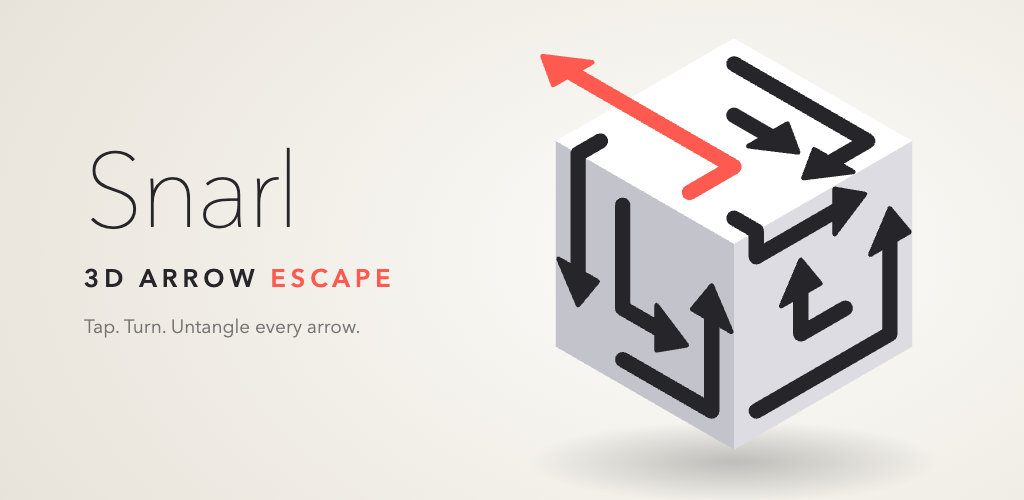
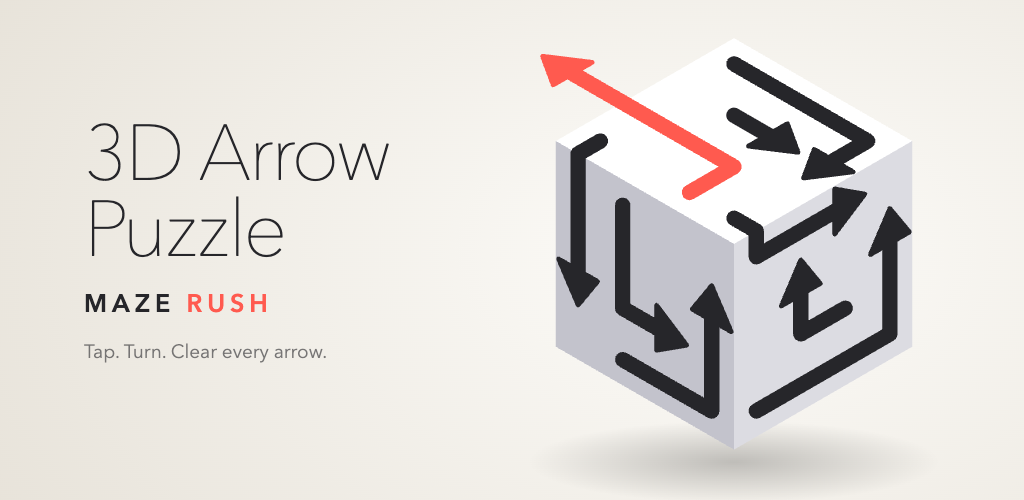
Rename to 3D Arrow Puzzle: Maze Rush on arrowpuzzle.scrolltrace.in

Changed region(s): [[0.0625, 0.24, 0.375, 0.51], [0.0625, 0.54, 0.375, 0.72]]

diff --git a/index.html b/index.html
@@ -3,21 +3,21 @@
 <head>
 <meta charset="utf-8">
 <meta name="viewport" content="width=device-width,initial-scale=1">
-<title>Snarl – 3D Arrow Escape Puzzle for Android</title>
-<meta name="description" content="Snarl is a calm 3D arrow puzzle. Tap an arrow and it slides out of the cube, if its path is clear. Endless levels, plays offline. Join the Android beta free.">
+<title>3D Arrow Puzzle: Maze Rush – Arrow Escape Game for Android</title>
+<meta name="description" content="3D Arrow Puzzle: Maze Rush is a calm arrow puzzle game. Tap an arrow and it slides out of the cube, if its path is clear. Endless levels, plays offline. Join the Android beta free.">
 <meta name="keywords" content="arrow puzzle, 3D arrow puzzle, arrow escape, tap away puzzle, cube puzzle, brain teaser, logic puzzle, offline puzzle game">
-<link rel="canonical" href="https://snarl.scrolltrace.in/">
+<link rel="canonical" href="https://arrowpuzzle.scrolltrace.in/">
 <meta property="og:type" content="website">
-<meta property="og:url" content="https://snarl.scrolltrace.in/">
-<meta property="og:title" content="Snarl – 3D Arrow Escape Puzzle">
+<meta property="og:url" content="https://arrowpuzzle.scrolltrace.in/">
+<meta property="og:title" content="3D Arrow Puzzle: Maze Rush">
 <meta property="og:description" content="Tap. Turn. Untangle every arrow. A calm 3D arrow puzzle for Android.">
-<meta property="og:image" content="https://snarl.scrolltrace.in/img/og.png">
+<meta property="og:image" content="https://arrowpuzzle.scrolltrace.in/img/og.png">
 <meta name="twitter:card" content="summary_large_image">
 <meta name="theme-color" content="#f6f4ef">
 <link rel="icon" href="img/icon.png">
 <link rel="apple-touch-icon" href="img/icon.png">
 <script type="application/ld+json">
-{"@context":"https://schema.org","@type":"VideoGame","name":"Snarl: 3D Arrow Escape Puzzle","url":"https://snarl.scrolltrace.in/","image":"https://snarl.scrolltrace.in/img/og.png","description":"A calm 3D arrow puzzle. Tap an arrow and it slides out of the shape if its path is clear. Clear every arrow to win. Endless levels, plays offline.","genre":["Puzzle","Logic","Brain teaser"],"gamePlatform":"Android","operatingSystem":"Android","applicationCategory":"GameApplication","offers":{"@type":"Offer","price":"0","priceCurrency":"USD"},"author":{"@type":"Organization","name":"Scrolltrace","url":"https://scrolltrace.in"}}
+{"@context":"https://schema.org","@type":"VideoGame","name":"3D Arrow Puzzle: Maze Rush","url":"https://arrowpuzzle.scrolltrace.in/","image":"https://arrowpuzzle.scrolltrace.in/img/og.png","description":"A calm 3D arrow puzzle. Tap an arrow and it slides out of the shape if its path is clear. Clear every arrow to win. Endless levels, plays offline.","genre":["Puzzle","Logic","Brain teaser"],"gamePlatform":"Android","operatingSystem":"Android","applicationCategory":"GameApplication","offers":{"@type":"Offer","price":"0","priceCurrency":"USD"},"author":{"@type":"Organization","name":"Scrolltrace","url":"https://scrolltrace.in"}}
 </script>
 <style>
 /* Paper white, one ink colour, one coral accent: the same look as the game. */
@@ -37,7 +37,7 @@ nav{position:fixed;z-index:5;top:14px;left:50%;transform:translateX(-50%);width:
 main{padding:0 20px}
 .hero{max-width:1040px;margin:0 auto;min-height:100vh;min-height:100svh;display:grid;grid-template-columns:1.05fr 1fr;align-items:center;gap:20px;padding:110px 0 60px}
 .hero .eyebrow{color:var(--coral)}
-h1{margin:12px 0 0;font-size:clamp(76px,12vw,150px);font-weight:300;line-height:.9;letter-spacing:-.05em}
+h1{margin:12px 0 0;font-size:clamp(58px,8.6vw,110px);font-weight:300;line-height:.92;letter-spacing:-.045em}
 .lede{margin:22px 0 30px;max-width:430px;font-size:clamp(17px,2vw,20px);color:var(--dim)}
 .cta{display:inline-flex;align-items:center;gap:16px;padding:9px 9px 9px 26px;border-radius:99px;border:0;background:var(--ink);color:#fff;font:inherit;text-align:left;cursor:pointer;box-shadow:0 18px 40px rgba(38,38,42,.2);transition:transform .25s cubic-bezier(.2,.8,.2,1),box-shadow .25s}
 .cta:hover{transform:translateY(-2px);box-shadow:0 24px 50px rgba(38,38,42,.26)}.cta:active{transform:scale(.98)}
@@ -112,12 +112,12 @@ footer a{color:var(--dim);text-decoration:none}footer a:hover{color:var(--ink)}
 </style>
 </head>
 <body>
-<nav><a class="brand" href="#"><img src="img/icon.png" alt="">Snarl</a><button class="chip" data-join>Join the beta</button></nav>
+<nav><a class="brand" href="#"><img src="img/icon.png" alt="">3D Arrow Puzzle</a><button class="chip" data-join>Join the beta</button></nav>
 <main>
   <section class="hero">
     <div>
-      <span class="label eyebrow">3D Arrow Escape Puzzle</span>
-      <h1>Snarl</h1>
+      <span class="label eyebrow">Maze Rush</span>
+      <h1>3D Arrow<br>Puzzle</h1>
       <p class="lede">A block wrapped in a tangle of arrows. Tap one and it slides out, if nothing is in its way. Clear them all.</p>
       <button class="cta" data-join><span><b>Get the game</b><small>Free Android beta</small></span><span class="go"><svg viewBox="0 0 24 24"><path d="M5 12h14M13 6l6 6-6 6"/></svg></span></button>
       <a class="alt-link" href="play/">or play it in your browser</a>
@@ -173,7 +173,7 @@ footer a{color:var(--dim);text-decoration:none}footer a:hover{color:var(--ink)}
       <img src="img/shot3.jpg" width="760" height="1351" loading="lazy" alt="A staircase-shaped puzzle being turned">
       <img src="img/shot4.jpg" width="760" height="1351" loading="lazy" alt="A cross-shaped 3D puzzle">
       <img src="img/shot5.jpg" width="760" height="1351" loading="lazy" alt="A ring-shaped medium level">
-      <img src="img/shot6.jpg" width="760" height="1351" loading="lazy" alt="The Snarl home screen">
+      <img src="img/shot6.jpg" width="760" height="1351" loading="lazy" alt="The 3D Arrow Puzzle home screen">
     </div>
   </section>
 
@@ -184,8 +184,8 @@ footer a{color:var(--dim);text-decoration:none}footer a:hover{color:var(--ink)}
     <div class="steps">
       <div class="card"><em class="label">01</em><b>Sign up</b><span>Tap “Get the game” and leave your first name and Google account email.</span></div>
       <div class="card"><em class="label">02</em><b>Join the group</b><span>We open our testers' Google Group. Press <b style="display:inline;font-size:inherit">Join group</b> at the top.</span></div>
-      <div class="card"><em class="label">03</em><b>Become a tester</b><span>Open <a target="_blank" rel="noopener" href="https://play.google.com/apps/testing/in.scrolltrace.snarl">the tester page</a> and tap “Become a tester”.</span></div>
-      <div class="card"><em class="label">04</em><b>Install</b><span>Get Snarl from <a target="_blank" rel="noopener" href="https://play.google.com/store/apps/details?id=in.scrolltrace.snarl">Google Play</a> and start untangling.</span></div>
+      <div class="card"><em class="label">03</em><b>Become a tester</b><span>Open <a target="_blank" rel="noopener" href="https://play.google.com/apps/testing/in.scrolltrace.arrowpuzzle3d">the tester page</a> and tap “Become a tester”.</span></div>
+      <div class="card"><em class="label">04</em><b>Install</b><span>Get it from <a target="_blank" rel="noopener" href="https://play.google.com/store/apps/details?id=in.scrolltrace.arrowpuzzle3d">Google Play</a> and start clearing arrows.</span></div>
     </div>
     <div class="card guide">
       <div><h3>Step 2 looks like this</h3><p>Our games share one testers' group, so Google's page may show another of our games' names. That's the right group. It also says “You don't have permission to access this content”; that only refers to messages. The button you want is <b style="color:var(--ink)">Join group</b>, next to the group's name at the top left.</p></div>
@@ -196,14 +196,14 @@ footer a{color:var(--dim);text-decoration:none}footer a:hover{color:var(--ink)}
 
   <section class="faq" aria-label="Questions">
     <h2 style="margin-bottom:16px">Questions</h2>
-    <details><summary>Is Snarl free?</summary><p>Yes. Snarl is free to download and play on Android.</p></details>
+    <details><summary>Is 3D Arrow Puzzle free?</summary><p>Yes. 3D Arrow Puzzle: Maze Rush is free to download and play on Android.</p></details>
     <details><summary>Does it work offline?</summary><p>Yes. The whole game runs on your phone, with no account and no internet needed.</p></details>
     <details><summary>How many levels are there?</summary><p>Levels never run out. They come in easy, medium and hard, with a tough one every few levels, and every player gets the same puzzle at the same level.</p></details>
     <details><summary>What if I get stuck?</summary><p>Each level gives you three hints that light up a free arrow, and you can skip a level from the settings.</p></details>
-    <details><summary>Is there an iPhone version?</summary><p>Not yet. Snarl is on Android first. Try it in your browser in the meantime.</p></details>
+    <details><summary>Is there an iPhone version?</summary><p>Not yet. It is on Android first. Try it in your browser in the meantime.</p></details>
   </section>
 </main>
-<footer><a href="play/">Play in your browser</a> &nbsp;·&nbsp; <a href="privacy">Privacy</a> &nbsp;·&nbsp; <a href="terms">Terms</a> &nbsp;·&nbsp; © 2026 Snarl</footer>
+<footer><a href="play/">Play in your browser</a> &nbsp;·&nbsp; <a href="privacy">Privacy</a> &nbsp;·&nbsp; <a href="terms">Terms</a> &nbsp;·&nbsp; © 2026 3D Arrow Puzzle: Maze Rush</footer>
 
 <div class="veil" id="veil" hidden>
   <form class="sheet" id="form" novalidate>
@@ -223,16 +223,16 @@ footer a{color:var(--dim);text-decoration:none}footer a:hover{color:var(--ink)}
       <p>Two taps left, both with that same Google account. On the group page, press <b style="color:var(--ink)">Join group</b> at the top left:</p>
       <div class="shotwrap"><img src="img/join-group.png" width="1400" height="400" alt="Where the Join group button is on the Google Group page"><span class="ring"></span><span class="tap">Tap here</span></div>
       <a class="wide" target="_blank" rel="noopener" href="https://groups.google.com/g/marblehush-beta"><b>1. Join the group</b></a>
-      <a class="wide alt" target="_blank" rel="noopener" href="https://play.google.com/apps/testing/in.scrolltrace.snarl"><b>2. Become a tester &amp; install</b></a>
+      <a class="wide alt" target="_blank" rel="noopener" href="https://play.google.com/apps/testing/in.scrolltrace.arrowpuzzle3d"><b>2. Become a tester &amp; install</b></a>
       <p class="fine">The group is shared by our games, so it may show another game's name. Ignore the “no permission” note; it only refers to messages.</p>
     </div>
   </form>
 </div>
 <script>
-// Sign-up: the name and email go to the same Google Sheet as our other betas (tagged "snarl"), then the visitor sees the two Google steps.
+// Sign-up: the name and email go to the same Google Sheet as our other betas (tagged "arrowpuzzle3d"), then the visitor sees the two Google steps.
 const WAITLIST_ENDPOINT='https://script.google.com/macros/s/AKfycbyOSyOvrlWvy-uEKnW_Crxjiy4WSVFZbWN4XkO9raHEXeBED3jeK64JrFKOdirZgoHxzw/exec';
 const veil=document.getElementById('veil'),form=document.getElementById('form'),err=document.getElementById('err'),ask=document.getElementById('ask'),next=document.getElementById('next');
-const show=()=>{veil.hidden=false;let joined=false;try{joined=!!localStorage.getItem('snarl-joined')}catch(_){}if(joined){ask.hidden=true;next.hidden=false}else form.elements.name.focus()};
+const show=()=>{veil.hidden=false;let joined=false;try{joined=!!localStorage.getItem('arrowpuzzle3d-joined')}catch(_){}if(joined){ask.hidden=true;next.hidden=false}else form.elements.name.focus()};
 document.querySelectorAll('[data-join]').forEach(b=>b.addEventListener('click',show));
 document.getElementById('close').onclick=()=>veil.hidden=true;
 veil.addEventListener('click',e=>{if(e.target===veil)veil.hidden=true});addEventListener('keydown',e=>{if(e.key==='Escape')veil.hidden=true});
@@ -240,8 +240,8 @@ form.addEventListener('submit',async e=>{e.preventDefault();err.hidden=true;
   const name=form.elements.name.value.trim(),email=form.elements.email.value.trim();
   if(!name||!/^[^\s@]+@[^\s@]+\.[^\s@]+$/.test(email)){err.textContent='Please enter your first name and a valid email.';err.hidden=false;return}
   const btn=document.getElementById('send');btn.disabled=true;btn.firstElementChild.textContent='One moment…';
-  try{await fetch(WAITLIST_ENDPOINT,{method:'POST',headers:{'Content-Type':'text/plain;charset=utf-8'},body:JSON.stringify({name,email,source:'snarl',website:form.elements.website.value})})}catch(_){}
-  try{localStorage.setItem('snarl-joined','1')}catch(_){}
+  try{await fetch(WAITLIST_ENDPOINT,{method:'POST',headers:{'Content-Type':'text/plain;charset=utf-8'},body:JSON.stringify({name,email,source:'arrowpuzzle3d',website:form.elements.website.value})})}catch(_){}
+  try{localStorage.setItem('arrowpuzzle3d-joined','1')}catch(_){}
   ask.hidden=true;next.hidden=false});
 </script>
 </body>

diff --git a/privacy.html b/privacy.html
@@ -1,18 +1,18 @@
 <!doctype html><html lang="en"><head><meta charset="utf-8"><meta name="viewport" content="width=device-width,initial-scale=1">
-<title>Privacy Policy – Snarl</title><link rel="canonical" href="https://snarl.scrolltrace.in/privacy"><link rel="icon" href="img/icon.png">
+<title>Privacy Policy – 3D Arrow Puzzle</title><link rel="canonical" href="https://arrowpuzzle.scrolltrace.in/privacy"><link rel="icon" href="img/icon.png">
 <style>body{margin:0;background:#f6f4ef;color:#26262a;font:400 16px/1.65 "Avenir Next","Helvetica Neue",system-ui,sans-serif}main{max-width:720px;margin:0 auto;padding:60px 22px 80px}h1{font-weight:400;font-size:40px;letter-spacing:-.03em;margin:0 0 4px}h2{font-size:19px;margin:34px 0 6px}p,li{color:rgba(38,38,42,.75)}a{color:#26262a}.back{font-size:14px;text-decoration:none;color:rgba(38,38,42,.6)}</style></head>
-<body><main><a class="back" href="./">← Snarl</a>
+<body><main><a class="back" href="./">← 3D Arrow Puzzle</a>
 <h1>Privacy Policy</h1><p><em>Last updated: 17 November 2026</em></p>
-<p>Snarl is a single-player puzzle game made by Scrolltrace. It has no accounts and never asks for your name, email address, contacts, photos or location.</p>
+<p>3D Arrow Puzzle: Maze Rush is a single-player puzzle game made by Scrolltrace. It has no accounts and never asks for your name, email address, contacts, photos or location.</p>
 <h2>What the game collects</h2>
 <p>Nothing. Your progress (the level you have reached and a level you left half-finished) is stored only on your device and is deleted when you delete the app. The game does not send any data to us or to anyone else, and it contains no analytics or advertising code.</p>
 <h2>The website's beta sign-up</h2>
-<p>If you join the beta through this website, we keep the first name and email address you enter, the time, and which game's page the form was on. They are stored in a private Google Sheet owned by the developer and used only to run the beta and to tell you about the launch. They are not shared or sold. To have your entry deleted, write to the developer contact address shown on Snarl's Google Play page.</p>
+<p>If you join the beta through this website, we keep the first name and email address you enter, the time, and which game's page the form was on. They are stored in a private Google Sheet owned by the developer and used only to run the beta and to tell you about the launch. They are not shared or sold. To have your entry deleted, write to the developer contact address shown on the game's Google Play page.</p>
 <h2>Future ads</h2>
 <p>A later version may offer an optional video ad to skip a level. If that happens, this policy will be updated before that version is released, describing the ad provider and what it collects.</p>
 <h2>Children</h2>
-<p>Snarl is not directed at children under 13 and does not knowingly collect personal information from them.</p>
+<p>The game is not directed at children under 13 and does not knowingly collect personal information from them.</p>
 <h2>Contact</h2>
-<p>Use the developer contact address shown on Snarl's Google Play page.</p>
+<p>Use the developer contact address shown on the game's Google Play page.</p>
 <h2>Changes</h2><p>If this policy changes, the new version will be posted at this address with a new date.</p>
 </main></body></html>

diff --git a/terms.html b/terms.html
@@ -1,5 +1,5 @@
 <!doctype html><html lang="en"><head><meta charset="utf-8"><meta name="viewport" content="width=device-width,initial-scale=1">
-<title>Terms of Use – Snarl</title><link rel="icon" href="img/icon.png">
+<title>Terms of Use – 3D Arrow Puzzle</title><link rel="icon" href="img/icon.png">
 <style>body{margin:0;background:#f6f4ef;color:#26262a;font:400 16px/1.65 "Avenir Next","Helvetica Neue",system-ui,sans-serif}main{max-width:720px;margin:0 auto;padding:60px 22px 80px}h1{font-weight:400;font-size:40px;letter-spacing:-.03em;margin:0 0 4px}p{color:rgba(38,38,42,.75)}a{color:#26262a}.back{font-size:14px;text-decoration:none;color:rgba(38,38,42,.6)}</style></head>
-<body><main><a class="back" href="./">← Snarl</a><h1>Terms of Use</h1>
-<p>Snarl is provided free of charge, as is, for personal entertainment. You may not copy, resell or redistribute the game or its levels. The developer is not liable for any loss arising from use of the game. These terms may be updated; the current version is always at this address.</p></main></body></html>
+<body><main><a class="back" href="./">← 3D Arrow Puzzle</a><h1>Terms of Use</h1>
+<p>3D Arrow Puzzle: Maze Rush is provided free of charge, as is, for personal entertainment. You may not copy, resell or redistribute the game or its levels. The developer is not liable for any loss arising from use of the game. These terms may be updated; the current version is always at this address.</p></main></body></html>

diff --git a/play/index.html b/play/index.html
@@ -3,7 +3,7 @@
 <head>
 <meta charset="utf-8">
 <meta name="viewport" content="width=device-width, initial-scale=1, maximum-scale=1, user-scalable=no, viewport-fit=cover">
-<title>Snarl</title>
+<title>3D Arrow Puzzle</title>
 <style>
   :root { --bg1:#f7f5f1; --bg2:#e8e4dc; --ink:#26262a; --accent:#ff5a4f; --line:color-mix(in srgb, var(--ink) 30%, transparent); }
   * { box-sizing:border-box; -webkit-tap-highlight-color:transparent; }
@@ -68,7 +68,7 @@
 </div>
 
 <div class="layer" id="home">
-  <div><h1>Snarl</h1><p>Pull every arrow free.</p></div>
+  <div><h1>3D Arrow<br>Puzzle</h1><p>Pull every arrow free.</p></div>
   <div class="stack"><div class="label" id="homeLevel"></div><button class="label pill solid" id="play">Play</button><button class="label" id="fresh" style="padding:12px 20px;opacity:.6;display:none">Start over</button></div>
 </div>
 
